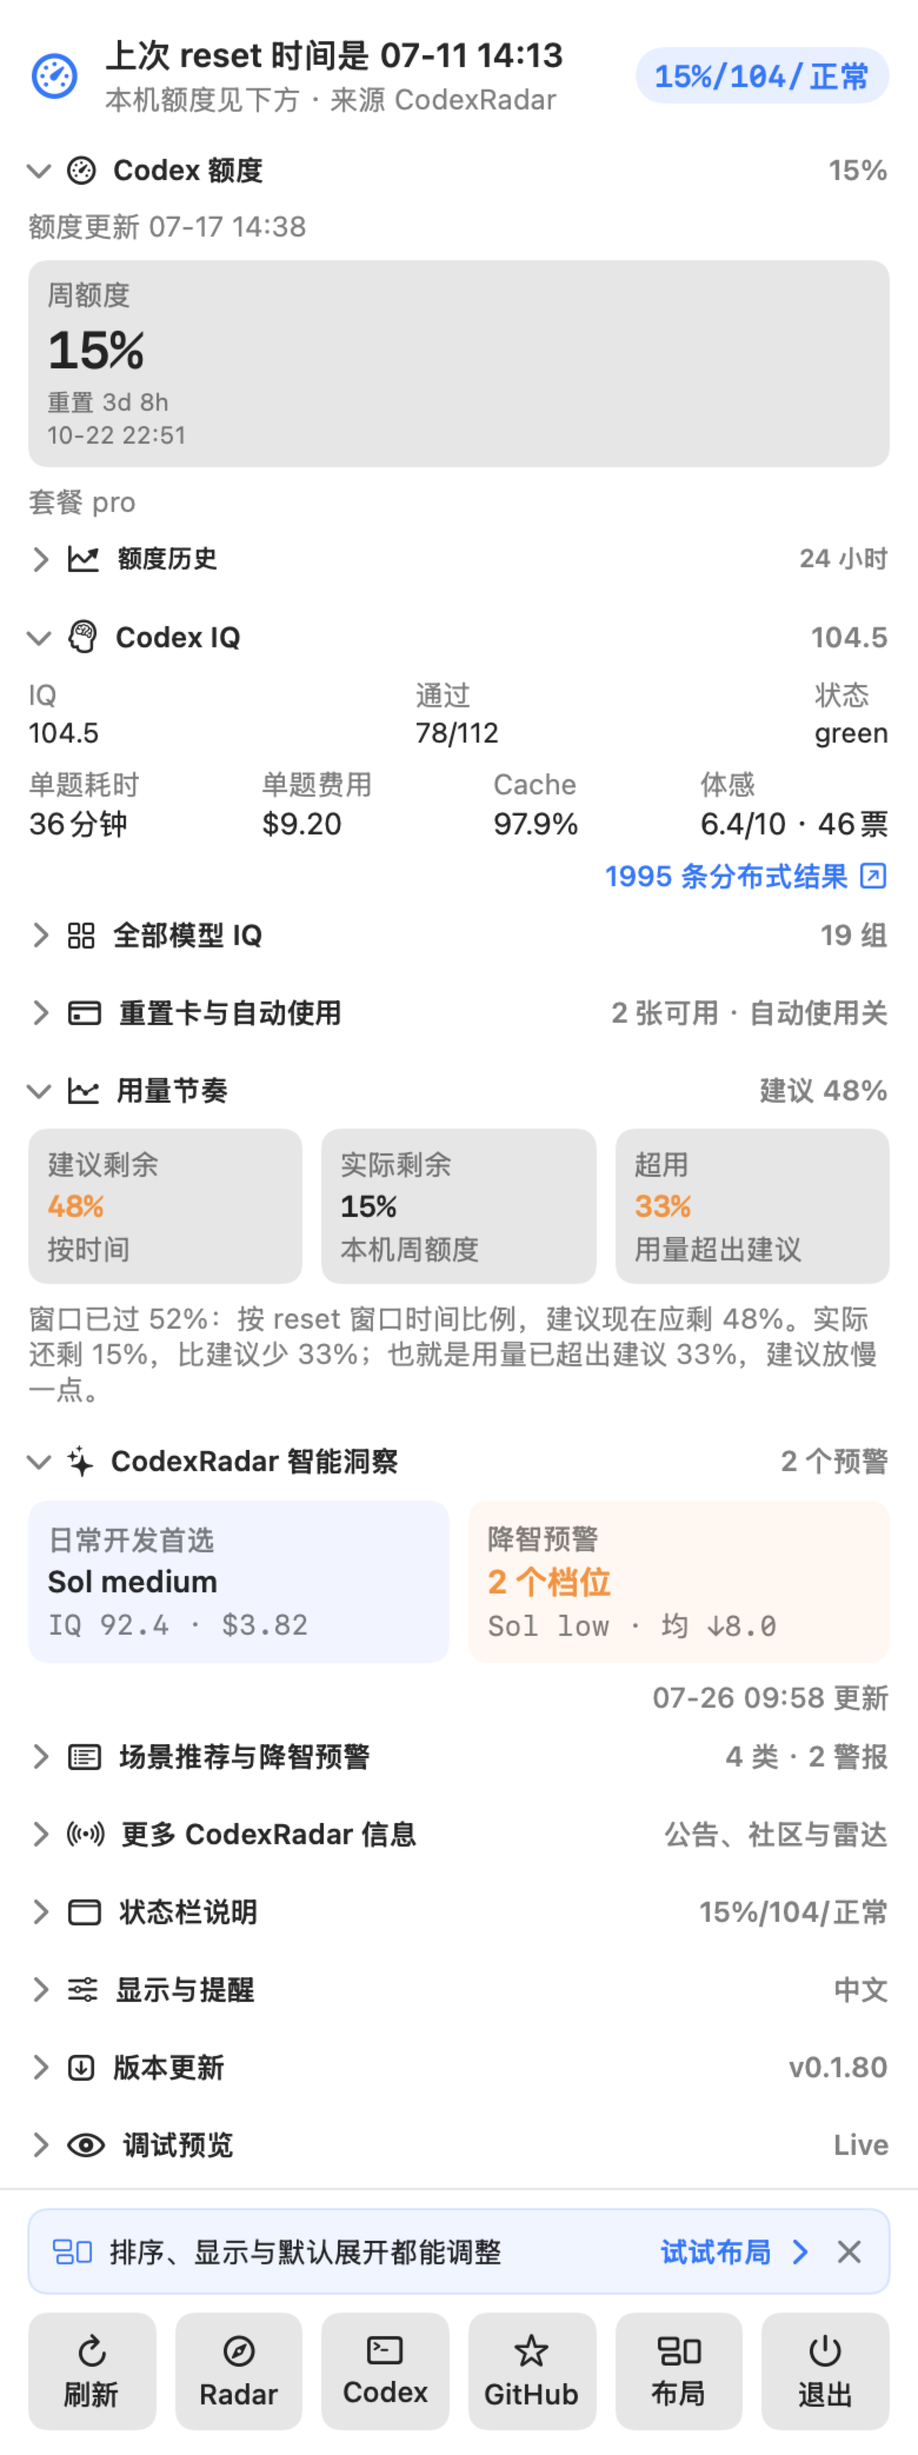
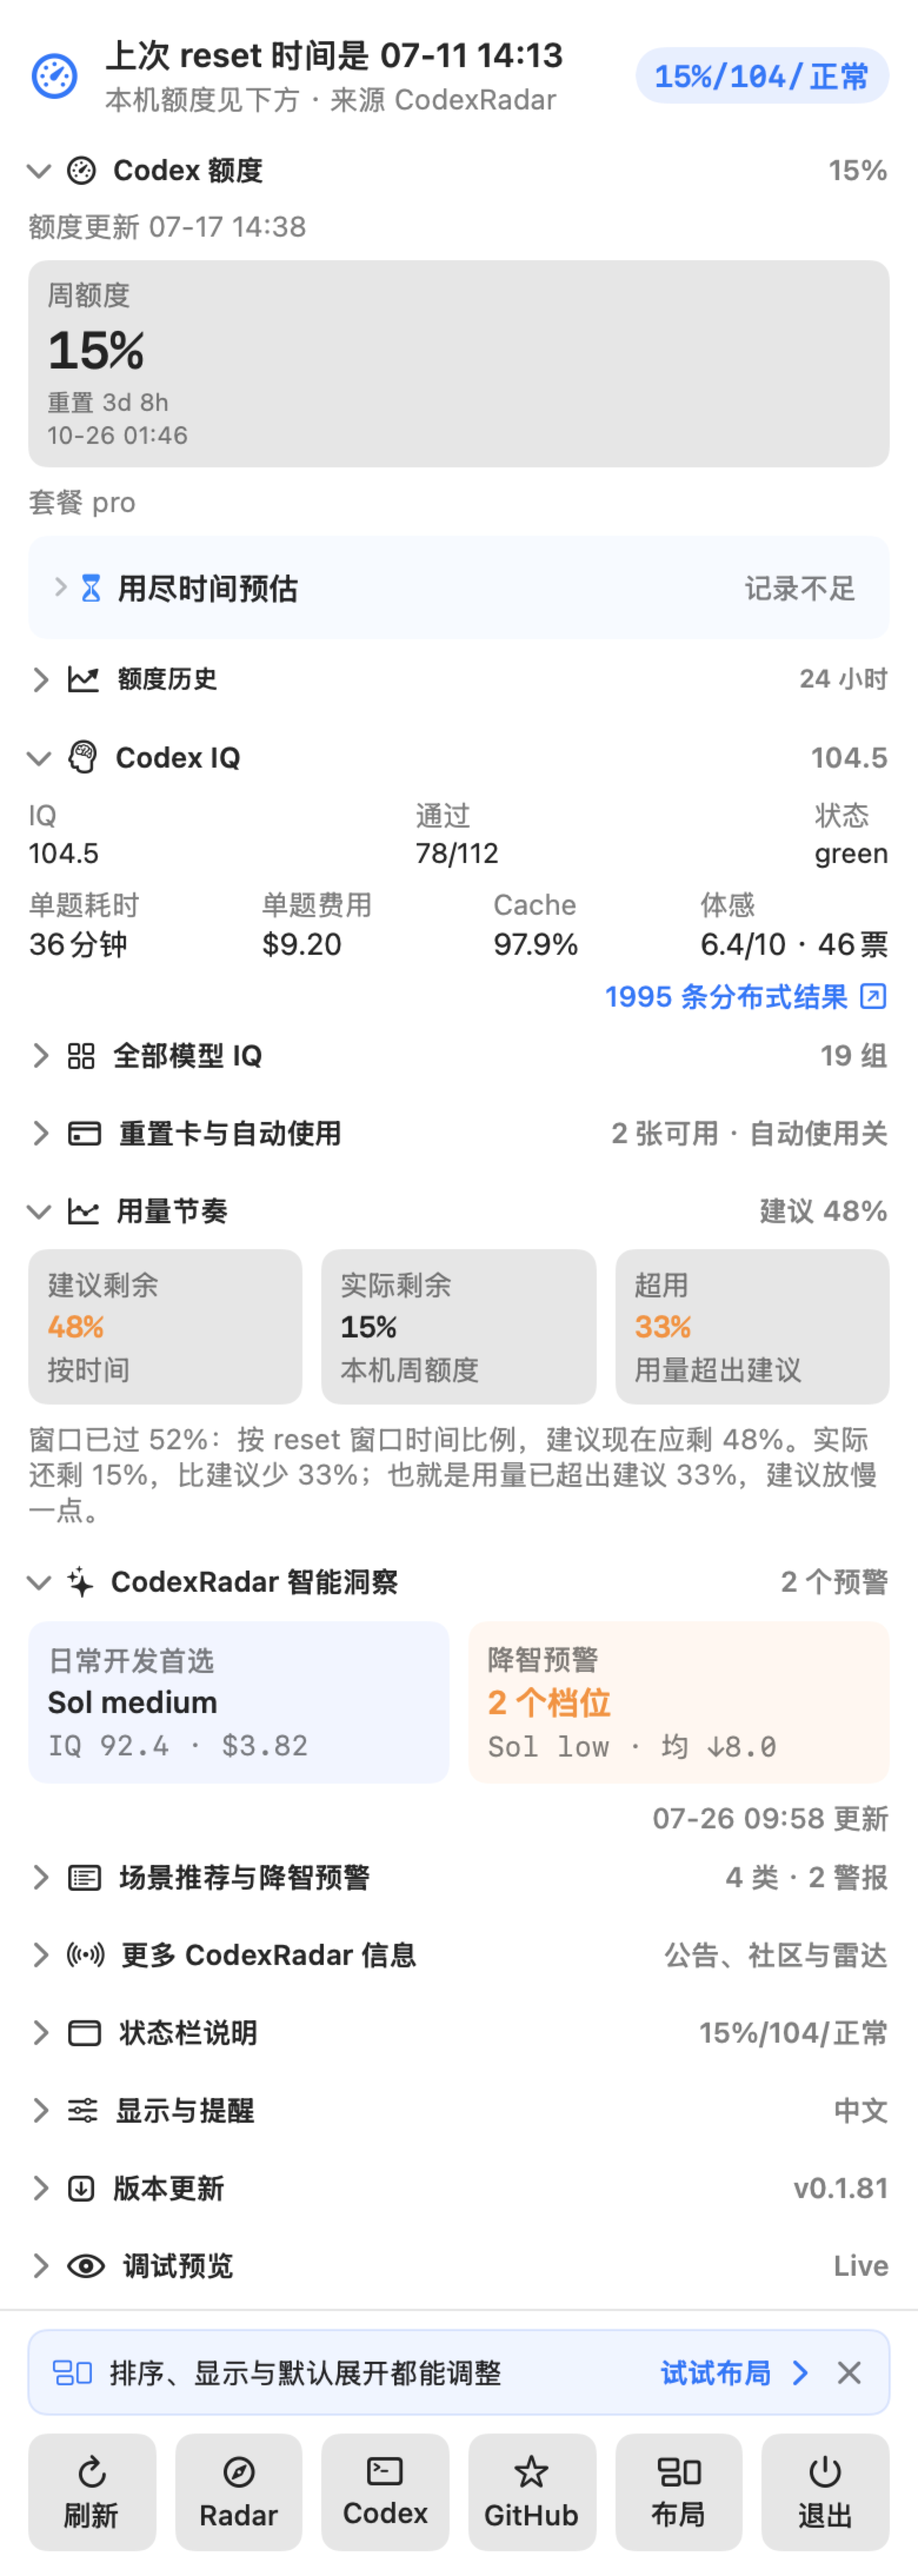
release: prepare v0.1.81 quota depletion forecasts
Prompt-Id: 120

diff --git a/Sources/CodexRadarCore/AppConstants.swift b/Sources/CodexRadarCore/AppConstants.swift
@@ -4,7 +4,7 @@ public enum AppConstants {
     public static let appName = "Codex Radar Sentinel"
     public static let clientName = "codex-radar-sentinel"
     public static let bundleIdentifier = "com.codexradar.sentinel"
-    public static let appVersion = "0.1.80"
+    public static let appVersion = "0.1.81"
 
     public static let codexLimitID = "codex"
     public static let weeklyWindowMinutes = 10_080.0

diff --git a/README.en.md b/README.en.md
@@ -49,6 +49,12 @@ Download the macOS package and SHA256 file, verify the package, install the app 
 
 ## What's New
 
+### v0.1.81: Quota depletion forecasts
+
+- See the projected depletion time and remaining duration below quota cards, preferring usage from the last hour.
+- Expand to compare consumption over the last 30 minutes, 1 hour, 2 hours, and 5 hours in one compact row per window.
+- Avoid misleading estimates across resets, refills, gaps, or incomplete history; hide or default-expand it in Layout.
+
 ### v0.1.80: Quieter connection recovery
 
 - Keep existing quota displayed normally through brief outages and restarts while refreshing automatically in the background.
@@ -62,14 +68,10 @@ Download the macOS package and SHA256 file, verify the package, install the app 
 - Support the Quota Radar schema 3 plan matrix with plan prices, per-model weekly quotas, and API-equivalent values, clearly identified as approximate public references rather than local remaining quota.
 - Retain compatibility with both radars' previous page or data formats.
 
-### v0.1.78: Follow the latest Fast Radar methodology
-
-- Parse Fast Radar's current definition-list methodology so test conditions, measurements, and boundaries remain complete.
-- Keep the `NEW` badge out of model names while retaining compatibility with the previous page structure.
-- Wait for newly created GitHub drafts and assets to become visible, reducing first-attempt release failures for complete packages.
-
 <details>
 <summary><strong>Earlier releases</strong></summary>
+
+- **v0.1.78**: Supports Fast Radar definition-list methodology with complete conditions and boundaries, and improves release synchronization waits.
 
 - **v0.1.77**: Preserves local quota and its successful update time across restarts, with automatic refresh after reconnection.
 

diff --git a/README.md b/README.md
@@ -49,6 +49,12 @@ https://github.com/WineChord/codex-radar/releases/latest
 
 ## 最新变化
 
+### v0.1.81：额度用尽时间预估
+
+- 在额度卡片下方直接查看预计用尽时刻与剩余时长，默认优先参考最近 1 小时用量。
+- 展开可对比最近 30 分钟、1 小时、2 小时和 5 小时的消耗速率，每个时段紧凑显示为一行。
+- 重置、额度补充、记录断档或数据不足时避免误导性估算；可在布局中隐藏或默认展开。
+
 ### v0.1.80：连接恢复更安静
 
 - 连接短暂中断或重启后，已有额度继续正常显示，后台自动重新获取。
@@ -62,14 +68,10 @@ https://github.com/WineChord/codex-radar/releases/latest
 - 兼容额度雷达 schema 3 套餐矩阵，展示套餐价格、各模型周额度和 API 等价值，并明确它们是公开近似参考而非本机剩余额度。
 - 两项雷达均继续支持旧版页面或数据格式。
 
-### v0.1.78：兼容 Fast 雷达最新方法说明
-
-- 兼容 Fast 雷达当前的定义列表方法说明，继续完整显示测试环境、口径与边界。
-- 新模型的 `NEW` 标记不再混入模型名称，同时保留旧版页面结构兼容。
-- 发布流程会等待 GitHub 新草稿与资产短暂同步，减少完整产物首次发布失败。
-
 <details>
 <summary><strong>更早版本</strong></summary>
+
+- **v0.1.78**：兼容 Fast 雷达定义列表方法说明，保留完整测试口径与边界，并改善发布同步等待。
 
 - **v0.1.77**：保存本机额度与成功更新时间，重启后恢复，并在连接恢复后自动刷新。
 

diff --git a/releases/v0.1.81.md b/releases/v0.1.81.md
@@ -1,0 +1,20 @@
+# v0.1.81
+
+## 更新内容
+
+- 在额度卡片下方查看预计用尽时刻与剩余时长，默认优先参考最近 1 小时用量。
+- 展开可对比最近 30 分钟、1 小时、2 小时和 5 小时的消耗速率，每个时段一行，同时显示预计用尽时刻与剩余时长。
+- 基于当前额度周期的连续本机记录计算，不跨越重置、额度补充或长时间断档；近期未消耗、记录不足及重置会先到时单独说明。
+- 支持中英文及三种字号，可在布局中隐藏或设为默认展开。
+
+## Changes
+
+- See projected quota depletion times and remaining durations below quota cards, preferring usage from the last hour.
+- Compare consumption over the last 30 minutes, 1 hour, 2 hours, and 5 hours in compact rows that show both the calendar time and remaining duration.
+- Use continuous local records from the current quota cycle without bridging resets, refills, or long gaps. Identify no recent usage, incomplete history, and resets arriving first separately.
+- Support both languages and all three text sizes, with visibility and default expansion controls in Layout.
+
+## 下载 / Downloads
+
+适用于 Apple 芯片与 Intel Mac。安装包沿用临时签名，未经 Apple 公证。
+For Apple silicon and Intel Macs. Ad-hoc signed; not Apple notarized.
